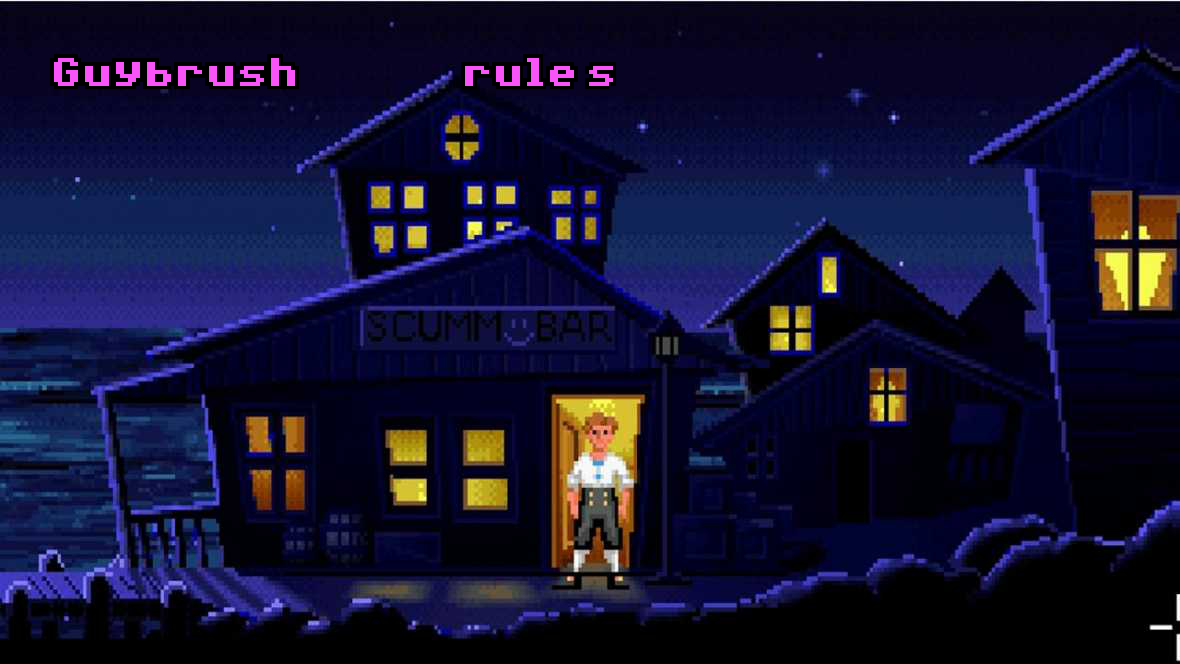
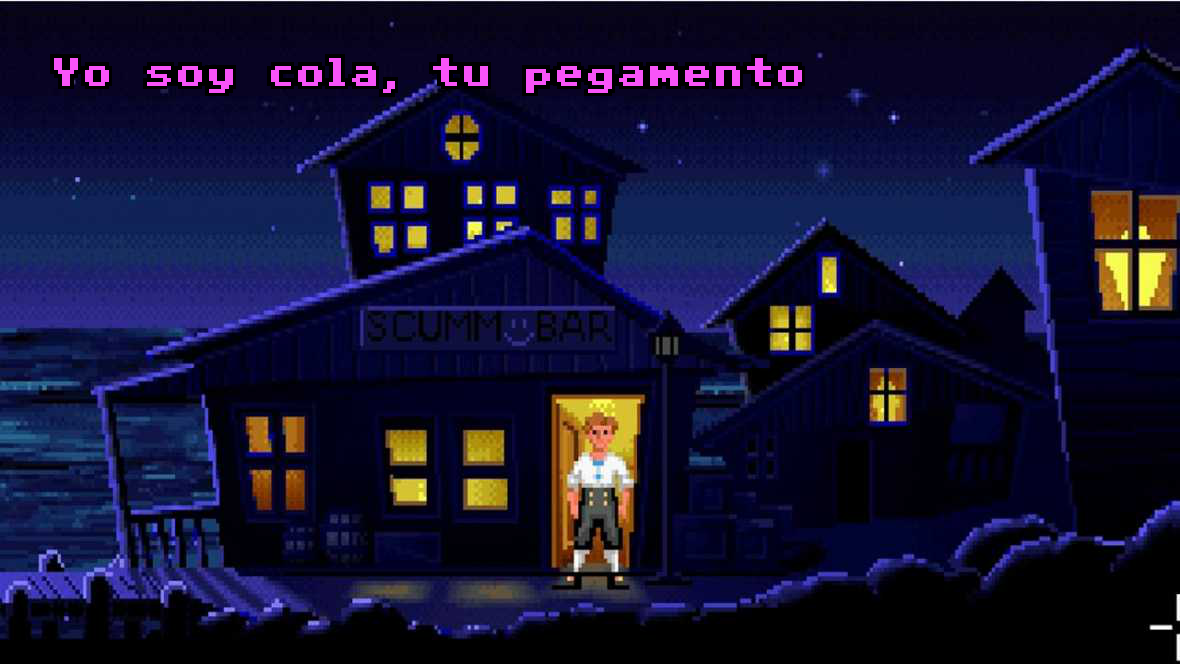
Readme fixing

Changed region(s): [[0.3661, 0.0602, 0.7017, 0.1506], [0.0305, 0.0602, 0.3356, 0.1506]]

diff --git a/README.md b/README.md
@@ -18,165 +18,16 @@ Brew is having issues to install libpng, I've got to check further...
 More information can be found in the following link: https://pillow.readthedocs.org/en/3.0.x/installation.html#os-x-installation
 
 
-# Mind dump
-
-I'll get some ideas/files from this project: http://www.int33h.com/test/mi/
-
-
-The JS code/offsets for the font creation:
+# Example of use
 
 ```
-function createSpeakerGrandi(img){
-	var sp = new Speaker(img);
-	sp.add("a",1112,40,32,40);
-	sp.add("b",1144,40,32,40);
-	sp.add("c",1176,40,28,40);
-	sp.add("d",1204,40,32,40);
-	sp.add("e",1236,40,32,40);
-	sp.add("f",0,80,32,40);
-	sp.add("g",32,80,32,40);
-	sp.add("h",64,80,32,40);
-	sp.add("i",100,80,24,40);
-	sp.add("j",128,80,28,40);
-	sp.add("k",156,80,32,40);
-	sp.add("l",192,80,24,40);
-	sp.add("m",216,80,36,40);
-	sp.add("n",252,80,32,40);
-	sp.add("o",284,80,32,40);
-	sp.add("p",316,80,32,40);
-	sp.add("q",348,80,32,40);
-	sp.add("r",380,80,32,40);
-	sp.add("s",412,80,32,40);
-	sp.add("t",444,80,32,40);
-	sp.add("u",476,80,32,40);
-	sp.add("v",508,80,32,40);
-	sp.add("w",540,80,36,40);
-	sp.add("x",576,80,32,40);
-	sp.add("y",608,80,32,40);
-	sp.add("z",640,80,32,40);
+python ./guybrush/guybrush.py -i imgs/Sample_1.jpg -o imgs/test33.png "Yo soy cola, tu pegamento"
+´´´
+Which outputs to:
 
 
-	sp.add("ö",672,80,32,40);
-	sp.add("ä",704,80,32,40);
-	sp.add("Ö",736,80,32,40);
-	sp.add("ß",768,80,32,40);
+# TO DO
 
-	sp.add("ç",840,80,32,40);
-	sp.add("ü",872,80,32,40);
-	sp.add("é",904,80,32,40);
-	sp.add("â",936,80,32,40);
-	sp.add("ä",968,80,32,40);
-	sp.add("à",1000,80,32,40);
-
-	sp.add("ê",1068,80,32,40);
-	sp.add("ë",1100,80,32,40);
-	sp.add("è",1132,80,32,40);
-	sp.add("ï",1168,80,24,40);
-	sp.add("ï",1196,80,24,40);
-	sp.add("ì",1228,80,24,40);
-
-	sp.add("Ä",0,120,32,40);
-	sp.add("å",32,120,32,40);
-	sp.add("É",64,120,32,40);
-	sp.add("ù",92,120,32,40);
-	sp.add("ò",124,120,32,40);
-
-
-	sp.add("?",0,40,32,40);
-	sp.add("-",32,40,36,40);
-	sp.add("A",68,40,32,40);
-	sp.add("B",100,40,32,40);
-	sp.add("C",132,40,32,40);
-	sp.add("D",164,40,32,40);
-	sp.add("E",196,40,32,40);
-	sp.add("F",228,40,32,40);
-	sp.add("G",260,40,32,40);
-	sp.add("H",292,40,32,40);
-	sp.add("I",328,40,24,40);
-	sp.add("J",356,40,32,40);
-	sp.add("K",388,40,32,40);
-	sp.add("L",420,40,32,40);
-	sp.add("M",452,40,36,40);
-	sp.add("N",488,40,32,40);
-	sp.add("O",520,40,32,40);
-	sp.add("P",552,40,32,40);
-	sp.add("Q",584,40,32,40);
-	sp.add("R",616,40,32,40);
-	sp.add("S",648,40,32,40);
-	sp.add("T",680,40,32,40);
-	sp.add("U",712,40,32,40);
-	sp.add("V",744,40,32,40);
-	sp.add("W",776,40,36,40);
-	sp.add("X",812,40,32,40);
-	sp.add("Y",844,40,32,40);
-	sp.add("Z",876,40,32,40);
-	sp.add("ü",908,40,32,40);
-	sp.add("ä",940,40,32,40);
-	sp.add("Ü",972,40,32,40);
-
-
-	sp.add("™",120,0,44,40);
-	sp.add(" ",164,0,12,40);
-	sp.add("!",324,0,16,40);
-	sp.add('"',340,0,32,40);
-	sp.add("#",372,0,40,40);
-	sp.add("$",412,0,32,40);
-	sp.add("%",444,0,32,40);
-	sp.add("&",476,0,32,40);
-	sp.add("'",516,0,20,40);
-	sp.add("(",540,0,28,40);
-	sp.add(")",564,0,28,40);
-	sp.add("*",592,0,40,40);
-	sp.add("+",632,0,32,40);
-	sp.add(",",668,0,20,40);
-	sp.add("-",688,0,32,40);
-
-	sp.add(".",728,0,16,40);
-	sp.add("/",744,0,36,40);
-
-	sp.add("0",780,0,32,40);
-	sp.add("1",812,0,32,40);
-	sp.add("2",844,0,32,40);
-	sp.add("3",876,0,32,40);
-	sp.add("4",908,0,36,40);
-	sp.add("5",944,0,32,40);
-	sp.add("6",976,0,32,40);
-	sp.add("7",1008,0,32,40);
-	sp.add("8",1040,0,32,40);
-	sp.add("9",1072,0,32,40);
-	sp.add(":",1108,0,24,40);
-	sp.add(";",1132,0,24,40);
-	sp.add("<",1152,0,32,40);
-	sp.add("©",1184,0,32,40);
-	sp.add(">",1220,0,32,40);
-
-
-	sp.add("á",156,120,32,40);
-	sp.add("í",186,120,24,40);
-	sp.add("ó",210,120,32,40);
-	sp.add("ú",242,120,32,40);
-	sp.add("ñ",274,120,32,40);
-	sp.add("¡",306,120,16,40);
-	sp.add("¿",322,120,32,40);
-	sp.add("ã",354,120,32,40);
-	sp.add("õ",386,120,32,40);
-
- 
-	sp.adjustY = function(c,bmp){
-		// to override
-		if (c == "p")	bmp.y += 4*Const.MOB;
-		if (c == "q")	bmp.y += 4*Const.MOB;
-		if (c == "j")	bmp.y += 4*Const.MOB;
-		if (c == "y")	bmp.y += 4*Const.MOB;
-		if (c == "g")	bmp.y += 4*Const.MOB;
-		if (c == ",")	bmp.y += 4*Const.MOB;
-		if (c == "¡")	bmp.y += 4*Const.MOB;
-		if (c == "¿")	bmp.y += 4*Const.MOB;
-	}
-
-	sp.interlinea = 36;
-
-	return sp;
-}
-
-```
+* Multi-line text support
+* Additional fonts
+* Animated gifs?
